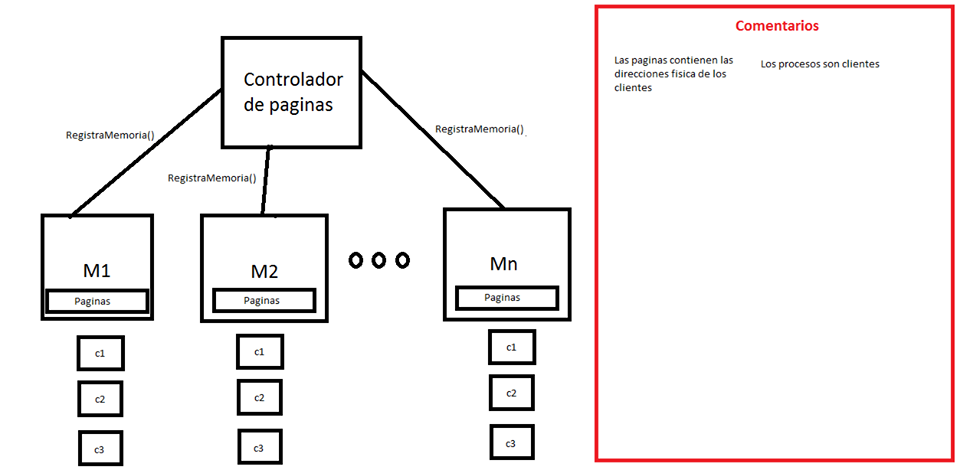
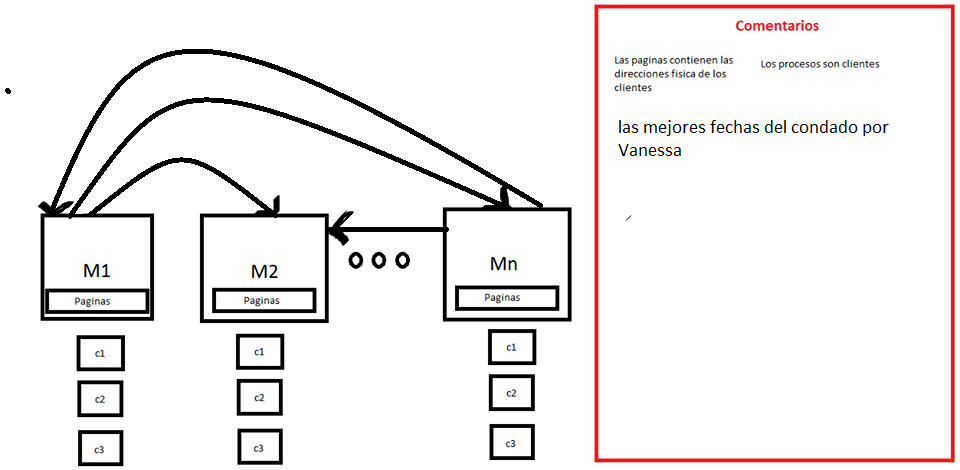
Actualizaciones

diff --git a/Proyecto2/Maquina1/Cliente1.py b/Proyecto2/Maquina1/Cliente1.py
@@ -7,80 +7,44 @@ import threading
 import os
 
 IP = '127.0.0.1'
-PUERTO = 8008
+PUERTO = 9000
+
+Maquinas = ['http://localhost:8002','http://localhost:8003']
 ##################### CLIENTE ###########################
 
 while True:
-	print "\n 1. Listar mis paginas \n 2. Listar todas las paginas \n 3. Leer Archivo \n 4. Modificar Archivos\n 5. Eliminar archivos \n 6. Cerrar"
-	opciones = ['1','2','3','4','5']
+	print "\n 1. Leer memoria \n 2. Escribir en memoria \n 3. Cerrar"
+	opciones = ['1','2','3']
 	opcion = raw_input("Elija una opcion: ")
 	if opcion == '1':
-		i = 1 
-		print "Mis paginas son:"
-		server = xmlrpclib.ServerProxy('http://localhost:8007')
-		paginas = server.ListarPagina()
-		for elemento in paginas:
-			print str(i) + ". " + elemento
-			i += 1
+		for i in Maquinas:
+			maquina = xmlrpclib.ServerProxy(i)
+			prestamo = maquina.PrestarPagina()
+			if prestamo == 0:
+				print "No es posible leer en este momento"
+			else:
+				print "La memoria tiene capacidad de ", prestamo[2], " lineas"
+				print prestamo[0]
+		
 	if opcion == '2':
-		server_controlador = xmlrpclib.ServerProxy('http://localhost:8006')
-		paginas = server_controlador.ListarPaginas()
-		i = 1
-		print "Los archivos disponibles son: "
-		for elemento in archivos:
-			print str(i) + ". " + elemento
-			i += 1
-	if opcion == '3':
-		nombre = raw_input("Ingrese el nombre del archivo (con su extension): ")
-		mi_direccion=IP+":"+str(PUERTO)
-		direccion, permiso = server.BuscarArchivo(nombre, mi_direccion)
-		if direccion == "Nope":
-			print "No se encuentra el archivo o el archivo se encuentra en uso"
-		else:
-			maquinaN = xmlrpclib.ServerProxy(direccion)
-			contenido1 = maquinaN.LeerArchivo(nombre)
-			print "\n",contenido1
-	if opcion == '4':
-		nombre = raw_input("Ingrese el nombre del archivo (con su extension): ")
-		mi_direccion=IP+":"+str(PUERTO)
-		direccion, permiso = server.BuscarArchivo(nombre, mi_direccion)
-		if direccion == "Nope":
-			print "No se encuentra el archivo o el archivo se encuentra en uso"
-		else:
-			if permiso == 1:
-				server.Bloqueo(nombre)
-				maquinaN = xmlrpclib.ServerProxy(direccion)
-				contenido2 = maquinaN.LeerArchivo(nombre)
-				archivo = open(nombre,"w")
-				archivo.write(contenido2)
+		for i in Maquinas:
+			maquina = xmlrpclib.ServerProxy(i)
+			prestamo = maquina.PrestarPagina()
+			if prestamo == 0:
+				print "La maquina no tiene memoria disponible"
+			else:
+				print "La memoria tiene capacidad de ", prestamo[2], " lineas"
+				archivo = open(prestamo[1],"w")
+				archivo.write(prestamo[0])
 				archivo.close()
-				os.popen("notepad "+ nombre)
-				archivo = open(nombre,"r")
+				os.popen("notepad "+ prestamo[1])
+				archivo = open(prestamo[1],"r")
 				contenido3 = archivo.read()
-				maquinaN.ActualizarArchivo(nombre, contenido3)
+				maquina.Consistencia(prestamo[1], contenido3)
 				archivo.close()
-				if nombre not in MisArchivos:
-					os.remove(nombre)
-				server.Desbloqueo(nombre)
-			else:
-				print "No tiene permiso para escribir el archivo"			
-	if opcion == '5':
-		nombre = raw_input("Ingrese el nombre del archivo (con su extension): ")
-		mi_direccion=IP+":"+str(PUERTO)
-		direccion, permiso = server.BuscarArchivo(nombre, mi_direccion)
-		if direccion == "Nope":
-			print "No se encuentra el archivo o el archivo se encuentra en uso"
-		else:
-			if permiso == 1:
-				maquinaN = xmlrpclib.ServerProxy(direccion)
-				maquinaN.EliminarArchivos(nombre)
-				server.EliminarArchivos(nombre)
-				if nombre in MisArchivos:
-					MisArchivos.remove(nombre)		
-					os.remove(nombre)
-			else:
-				print "No tiene permisos para eliminar el archivo"
-	if opcion == '6':
+				os.remove(prestamo[1])
+
+	if opcion == '3':
 		break
 	if opcion not in opciones:
 		print "No existe esta opcion en el menu"

diff --git a/Proyecto2/Maquina1/Maquina1.py b/Proyecto2/Maquina1/Maquina1.py
@@ -7,18 +7,10 @@ import threading
 import os
 
 IP = '127.0.0.1'
-PUERTO = 8007
+PUERTO = 8004
 MisPaginas = ["M1P1.txt", "M1P2.txt", "M1P3.txt"]
+PaginasDisponibles = ["M1P1.txt", "M1P2.txt", "M1P3.txt"]
 Capacidad = [10, 8, 5]
-
-
-server = xmlrpclib.ServerProxy('http://localhost:8006')
-print "Registrando Espacio de Memoria ..."
-n = 0
-for i in MisPaginas:
-	registroPaginas = server.RegistrarPagina(i, IP, PUERTO, Capacidad[n])
-	n += 1
-	time.sleep(1)
 
 #################### SERVIDOR ###########################
 
@@ -30,19 +22,25 @@ server = SimpleXMLRPCServer((IP,PUERTO),
 server.register_introspection_functions()
 
 class MyFuncs:
-	def LeerPagina(self, nombrearchivo):
-		pagina = open(nombrearchivo,"r")
-		contenido = pagina.read()
-		pagina.close()
-		return contenido
+	def PrestarPagina(self):
+		if PaginasDisponibles.length() == 0:
+			return 0
+		else: 
+			Pagina =  PaginasDisponibles[0].remove()
+			capacidad = MisPaginas.index(Pagina)
+			Archivo = open(Pagina,"r")
+			contenido = Archivo.read()
+			Archivo.close()
+			return contenido, Pagina, capacidad
 
-	def ActualizarPagina(self, nombrearchivo, contenido):
+	def Consistencia(self, nombrearchivo, contenido):
 		pagina = open(nombrearchivo,"w")
 		pagina.write(contenido)
 		pagina.close()
+		PaginasDisponibles.append(nombrearchivo)
+
 		return 0
 
-	def ListarPagina(self):
-		return MisPaginas
-
 server.register_instance(MyFuncs())
+
+server = xmlrpclib.ServerProxy('http://localhost:8006')

diff --git a/Proyecto2/ControladorPag.py b/Proyecto2/ControladorPag.py
@@ -37,6 +37,7 @@ class MyFuncs:
 				return propietario
 			else
 				return "no"
+				
 	def ListarPagina(self):
 		for pag in self.paginas:
 			pag.nombre
